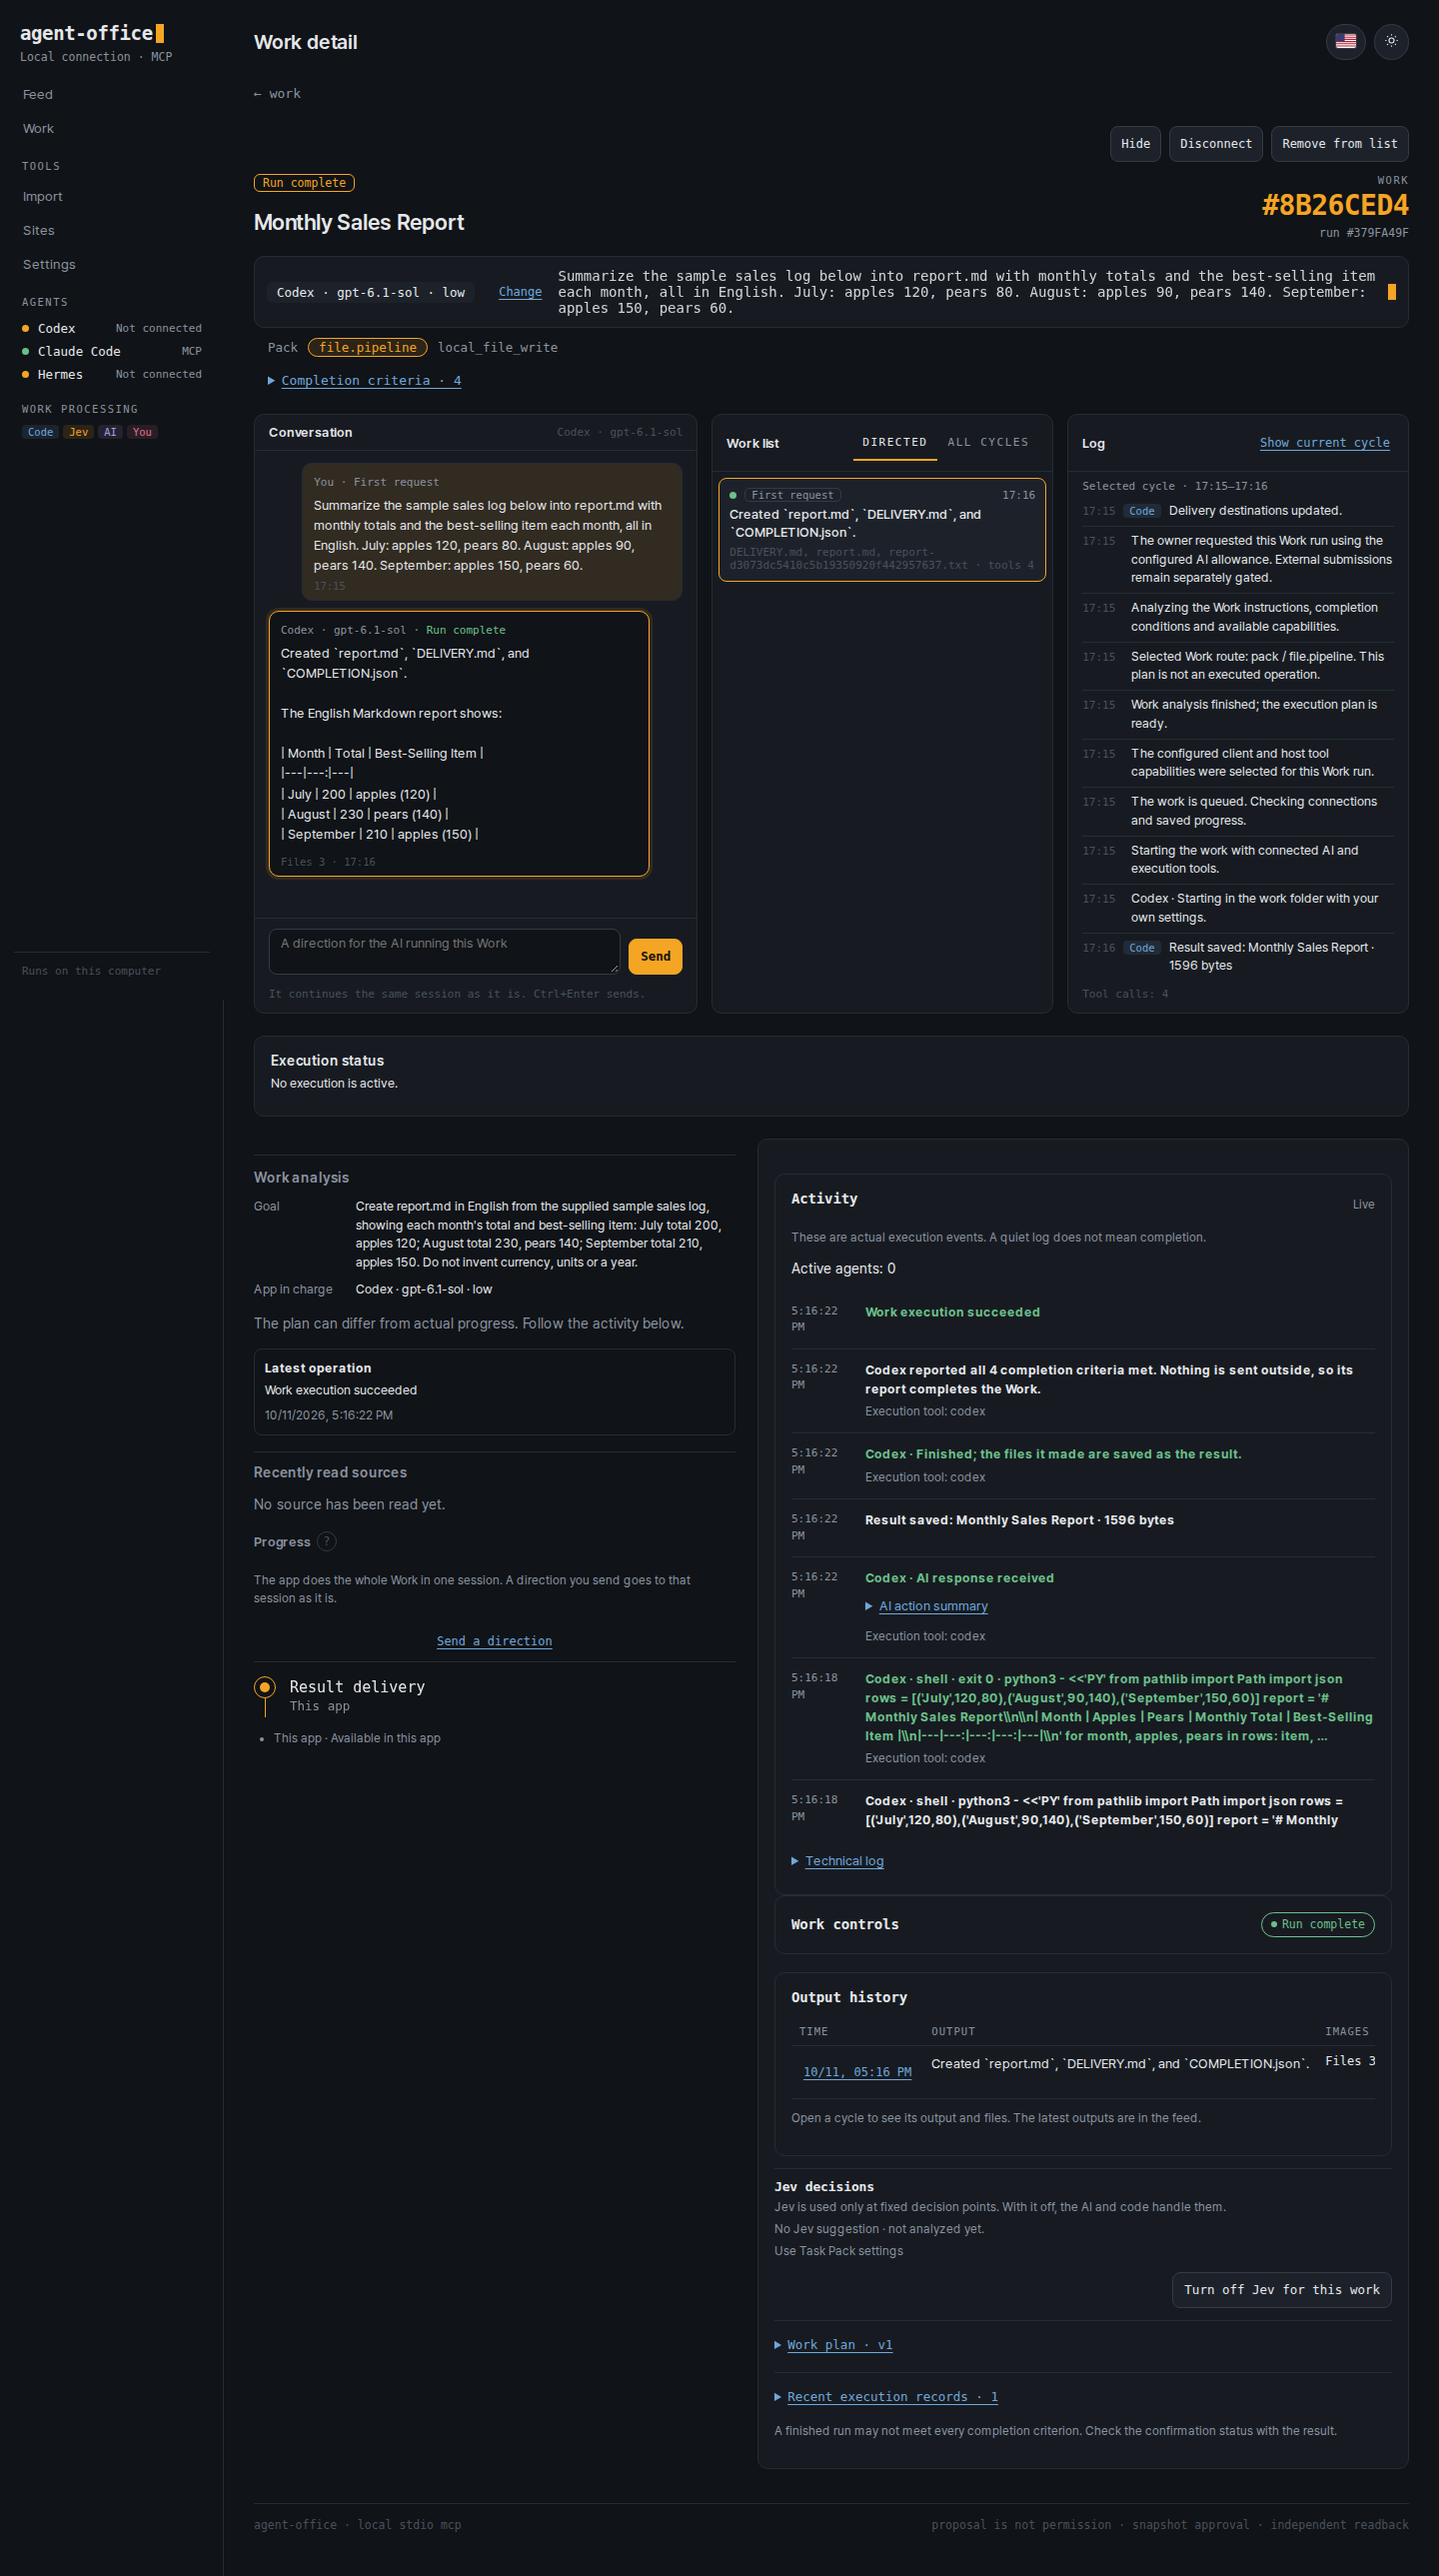
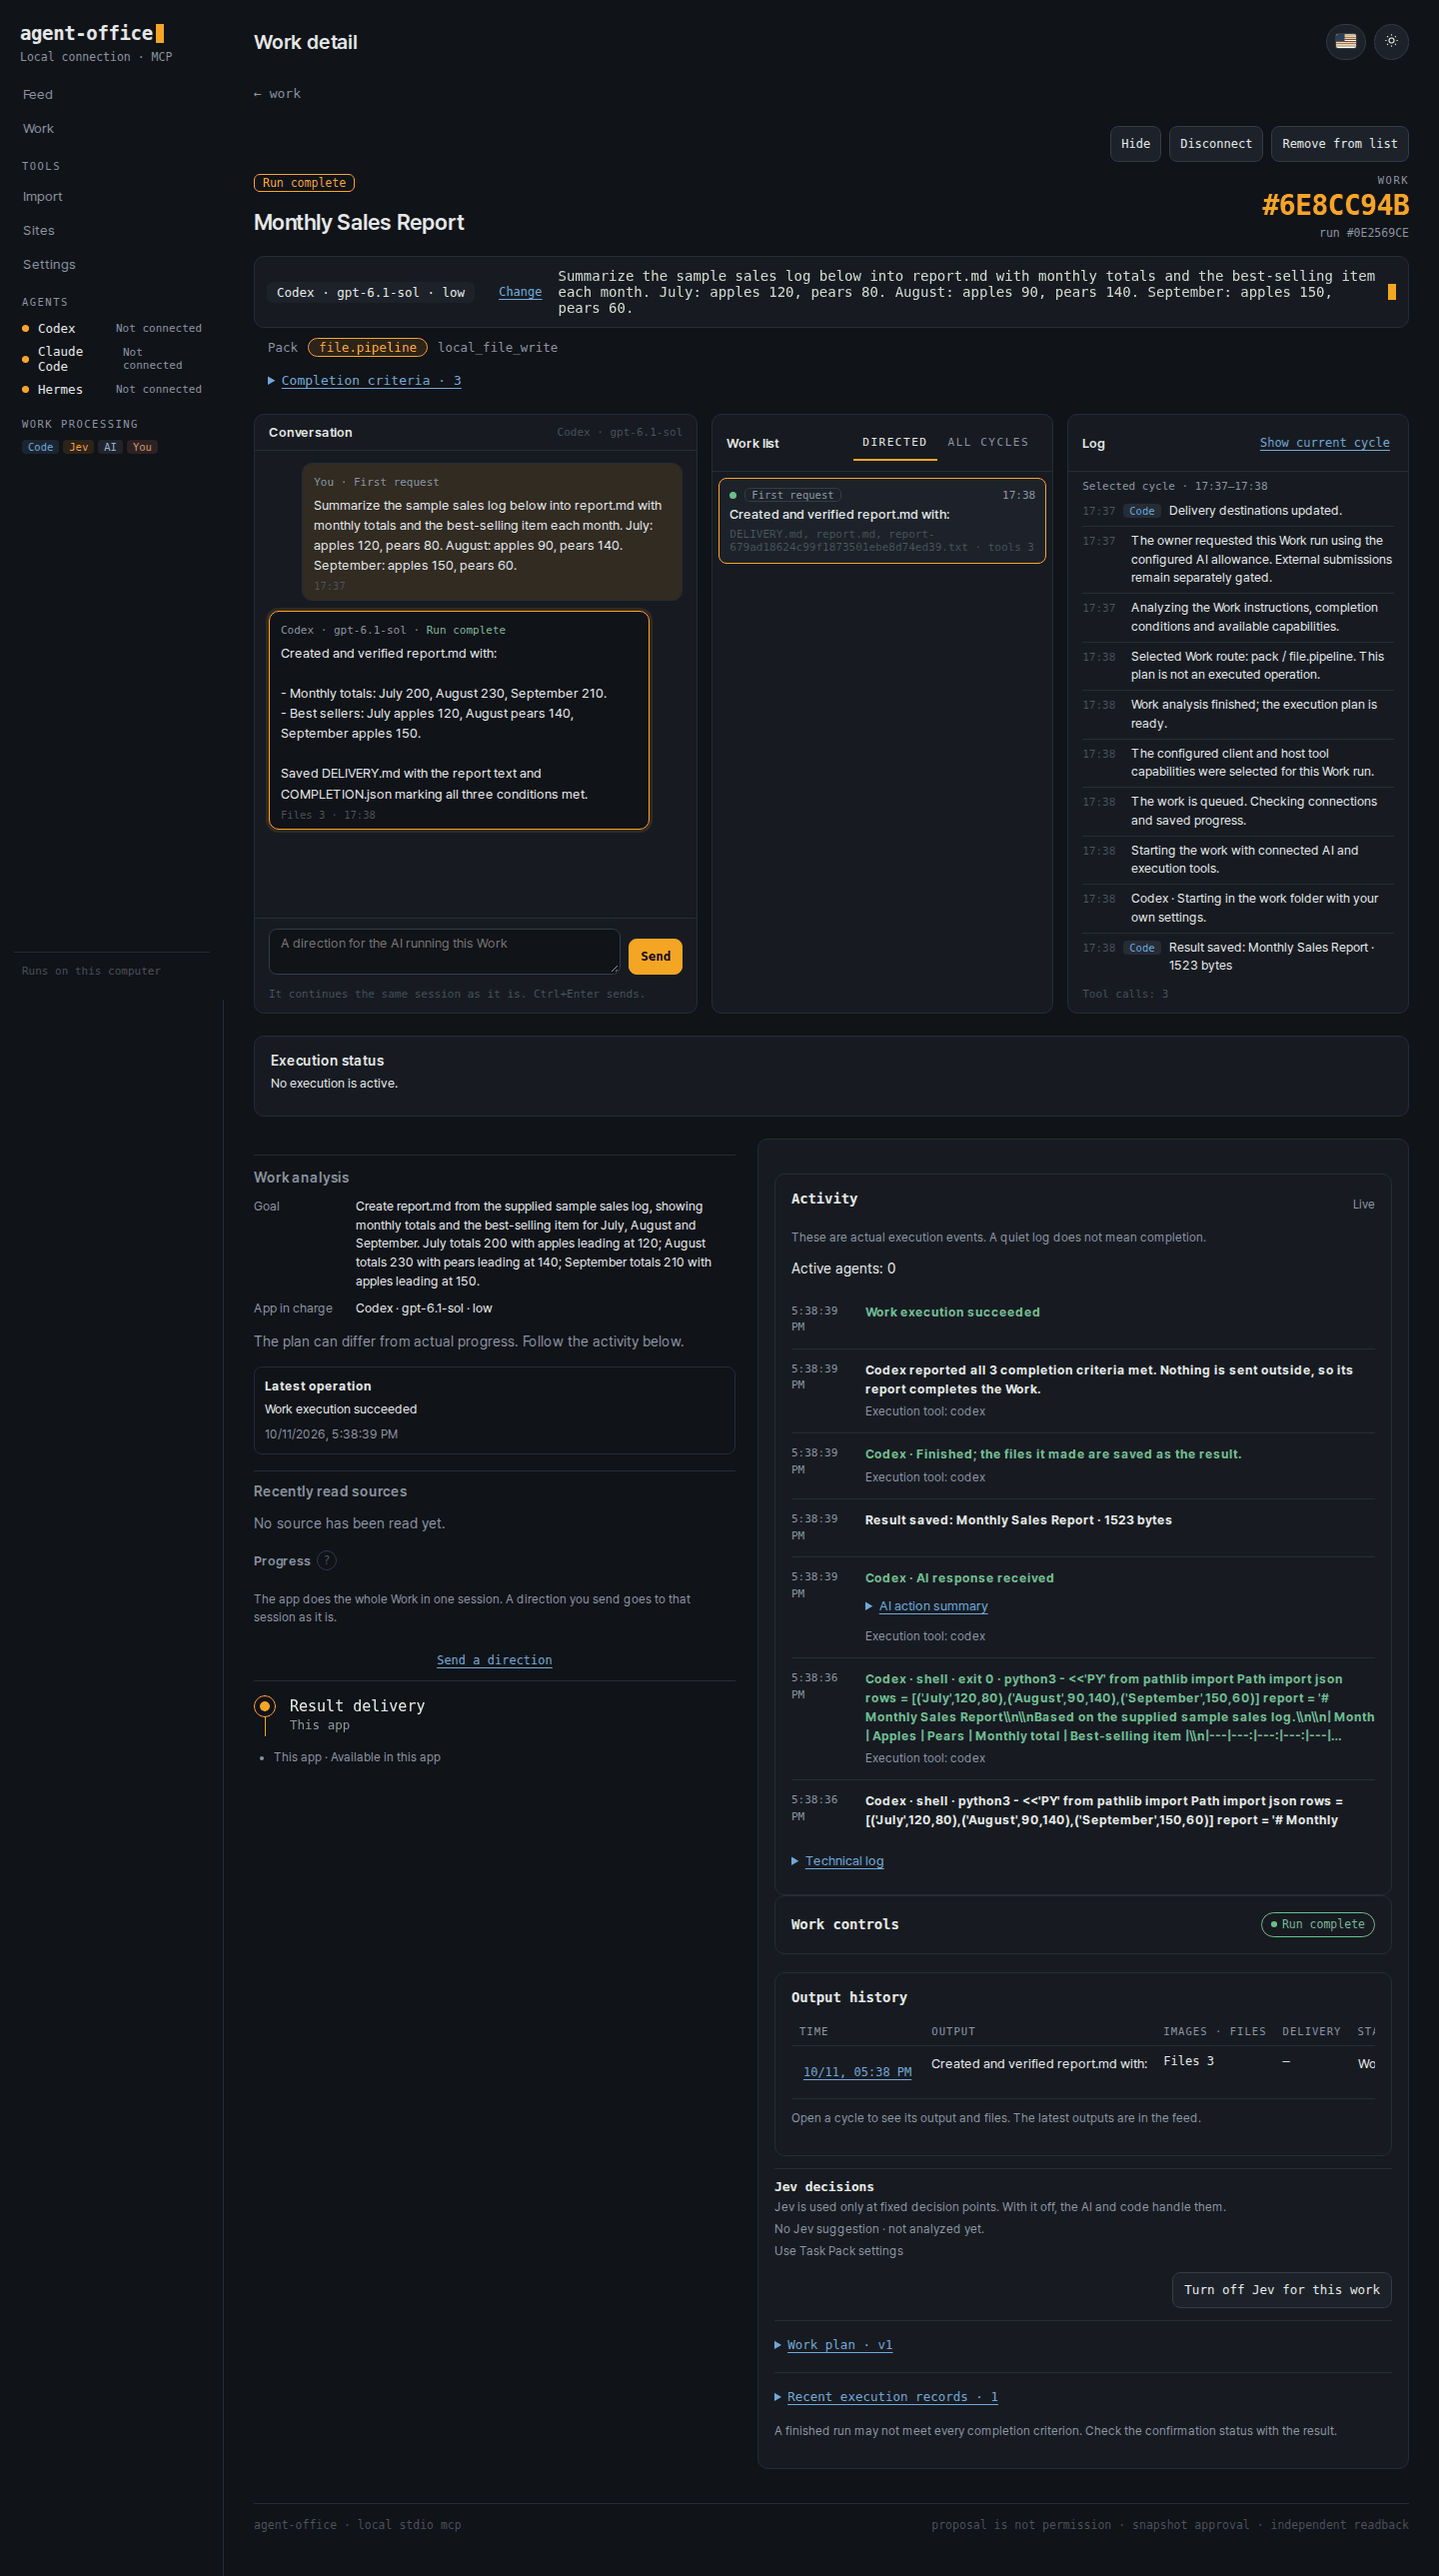
README Work detail: rerun on a clean home; keep it light; English log line
The first recapture ran with this computer's own home, so Codex wrote the
English sample in Korean and the receipt's clean-home claim was wrong. The
detail pictures are now a fresh install with a clean home again, under
300 KB, and the files-saved log line has its English form.

diff --git a/src/observability/i18n.ts b/src/observability/i18n.ts
@@ -686,6 +686,7 @@ const EN:Record<string,string>={
 const RULES:Array<[string,string]>=[
 ['^(\\d+) / (\\d+) 단계$','$1 / $2 stages'],
 ['^단계 (\\d+)$','Step $1'],
+['^실행을 마쳤습니다\\. 만든 파일 (\\d+)개를 결과로 저장했습니다\\.$','Finished; the $1 files it made are saved as the result.'],
 ['^지침 변경 · (.+)$','Instruction changed · $1'],
 ['^(.+) · 저장된 모델$','$1 · saved model'],
 ['^(\\S+) 기본값만$','$1 default only'],
